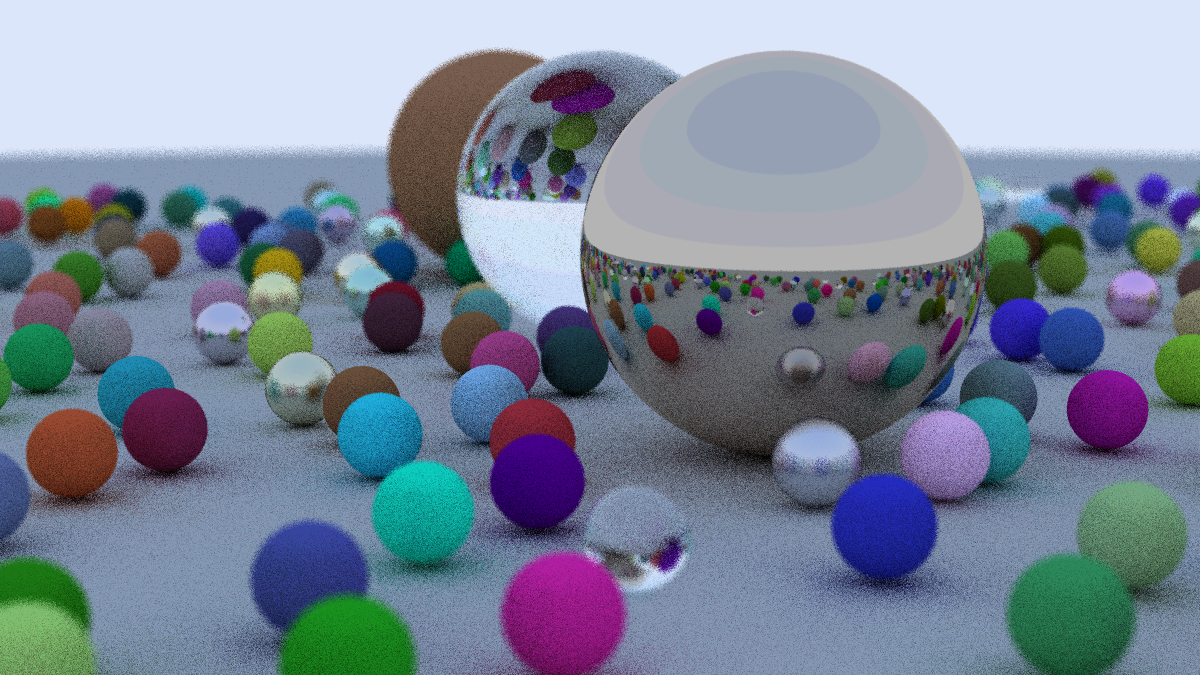
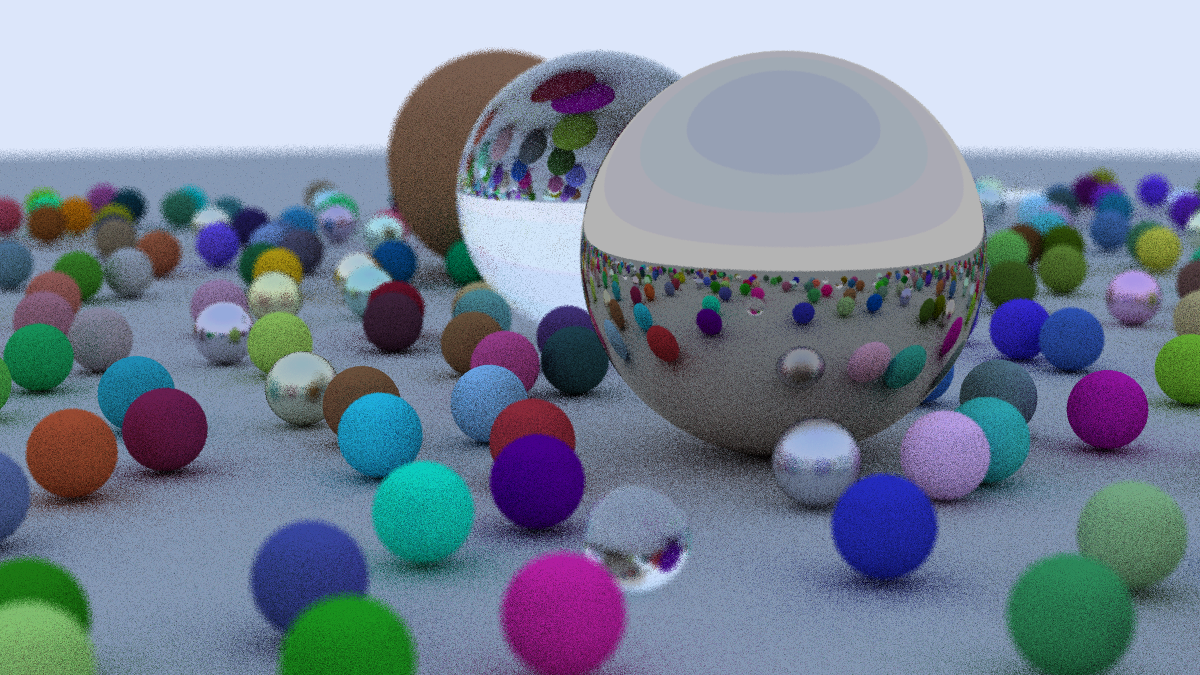
fixed bug when running with high sample count

diff --git a/src/RayTracer.cpp b/src/RayTracer.cpp
@@ -24,7 +24,7 @@ RayTracer::RayTracer(RayTracerSettings settings)
 
 void RayTracer::render(const std::string& outputFile) const
 {
-    std::vector<uint8_t> image(m_imageWidth * m_imageHeight * 3);
+    std::vector<float> imageIntensities(m_imageWidth * m_imageHeight * 3);
 
     // for (int y = 0; y < m_imageHeight; y++)
     // {
@@ -56,7 +56,7 @@ void RayTracer::render(const std::string& outputFile) const
                     Ray ray = getRay(x, y);
                     Color pixelColor = rayColor(ray, m_maxDepth) / m_samplesPerPixel;
                     pixelColor /= m_samplesPerPixel;
-                    addToPixel(image, m_imageWidth, x, y, pixelColor);
+                    addToPixel(imageIntensities, m_imageWidth, x, y, pixelColor);
                 }
             }
             });
@@ -65,16 +65,28 @@ void RayTracer::render(const std::string& outputFile) const
     while (1)
     {
         int remaining = pool.getQueueSize() + pool.getCountWorking();
-        std::clog << "\rSamples remaining: " << remaining << " Currently working on: " << pool.getCountWorking() << std::flush;
+        std::clog << "\rSamples remaining: " << remaining << " Currently working on: " << pool.getCountWorking() << "  " << std::flush;
         if (remaining == 0)
             break;
         pool.waitForUpdate();
     }
 
+    std::vector<uint8_t> image(m_imageWidth * m_imageHeight * 3);
+    for (int y = 0; y < m_imageHeight; y++)
+    {
+        for (int x = 0; x < m_imageWidth; x++)
+        {
+            setPixel(image, m_imageWidth, x, y,
+                Color(imageIntensities[3 * (y * m_imageWidth + x)],
+                    imageIntensities[3 * (y * m_imageWidth + x) + 1],
+                    imageIntensities[3 * (y * m_imageWidth + x) + 2]));
+        }
+    }
+
     _mkdir("output");
     stbi_write_png(outputFile.c_str(), m_imageWidth, m_imageHeight, 3, image.data(), m_imageWidth * 3);
 
-    std::clog << "\rDone.                 \n";
+    std::clog << "\rDone.                                        \n";
 }
 
 void RayTracer::setSettings(RayTracerSettings settings)
@@ -190,32 +202,21 @@ void RayTracer::setPixel(std::vector<uint8_t>& image, int imageWidth, int x, int
     int bbyte = int(256 * intensity.clamp(b));
 
     // Write out the pixel color components.
-    std::scoped_lock<std::mutex> lock(s_imageMutex);
+    // std::scoped_lock<std::mutex> lock(s_imageMutex);
     image[3 * (y * imageWidth + x)] = rbyte;
     image[3 * (y * imageWidth + x) + 1] = gbyte;
     image[3 * (y * imageWidth + x) + 2] = bbyte;
 }
 
-void RayTracer::addToPixel(std::vector<uint8_t>& image, int imageWidth, int x, int y, const Color& pixelColor) const
+void RayTracer::addToPixel(std::vector<float>& imageIntensities, int imageWidth, int x, int y, const Color& pixelColor) const
 {
     float r = pixelColor.x();
     float g = pixelColor.y();
     float b = pixelColor.z();
 
-    // Apply a linear to gamma transform for gamma 2
-    r = linearToGamma(r);
-    g = linearToGamma(g);
-    b = linearToGamma(b);
-
-    // Translate the [0,1] component values to the byte range [0,255].
-    static const Interval intensity(0.000f, 0.999f);
-    int rbyte = int(256 * intensity.clamp(r));
-    int gbyte = int(256 * intensity.clamp(g));
-    int bbyte = int(256 * intensity.clamp(b));
-
     // Write out the pixel color components.
     std::scoped_lock<std::mutex> lock(s_imageMutex);
-    image[3 * (y * imageWidth + x)] += rbyte + image[3 * (y * imageWidth + x)] > 255 ? image[3 * (y * imageWidth + x)] - 255 : rbyte;
-    image[3 * (y * imageWidth + x) + 1] += gbyte + image[3 * (y * imageWidth + x) + 1] > 255 ? image[3 * (y * imageWidth + x) + 1] - 255 : gbyte;
-    image[3 * (y * imageWidth + x) + 2] += bbyte + image[3 * (y * imageWidth + x) + 2] > 255 ? image[3 * (y * imageWidth + x) + 2] - 255 : bbyte;
+    imageIntensities[3 * (y * imageWidth + x)] += r;
+    imageIntensities[3 * (y * imageWidth + x) + 1] += g;
+    imageIntensities[3 * (y * imageWidth + x) + 2] += b;
 }

diff --git a/src/RayTracer.h b/src/RayTracer.h
@@ -38,7 +38,7 @@ private:
     Vec3 defocusDistSample() const;
     Color rayColor(const Ray& r, int depth) const;
     void setPixel(std::vector<uint8_t>& image, int imageWidth, int x, int y, const Color& pixelColor) const;
-    void addToPixel(std::vector<uint8_t>& image, int imageWidth, int x, int y, const Color& pixelColor) const;
+    void addToPixel(std::vector<float>& imageIntensities, int imageWidth, int x, int y, const Color& pixelColor) const;
 private:
     float m_aspectRatio;
     int m_imageWidth;
